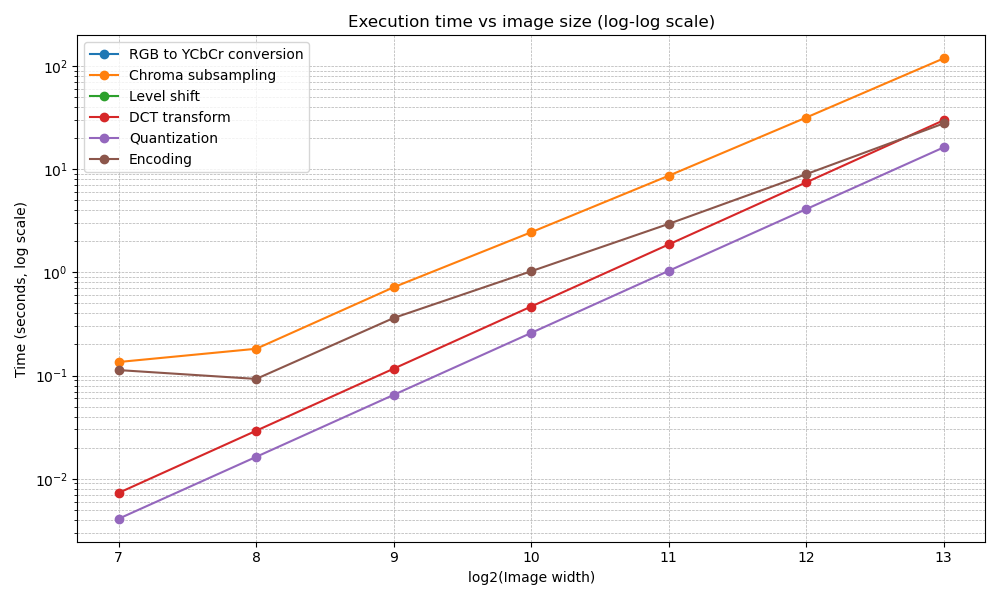
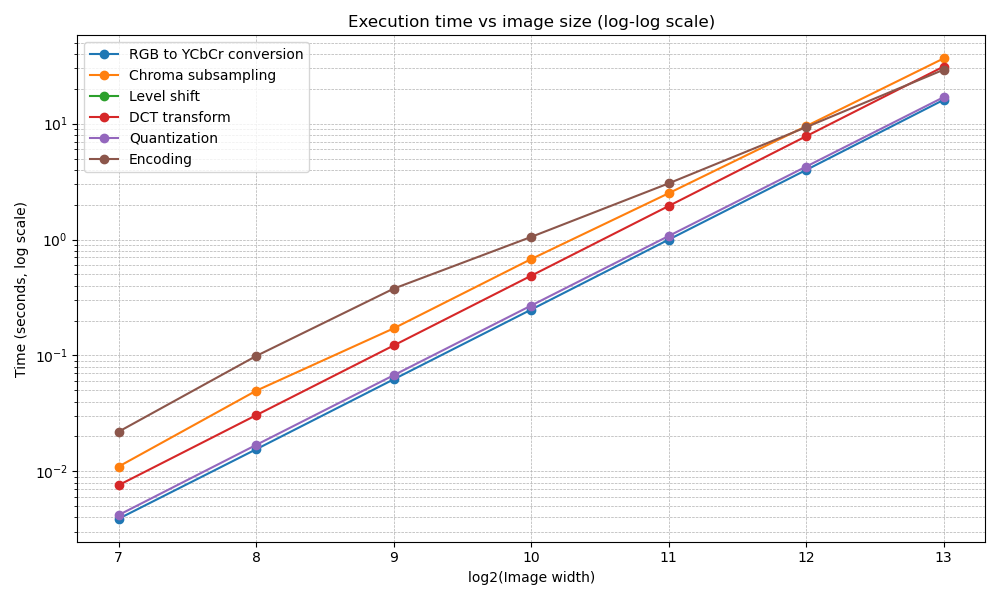
Correct the profiling log from ps

Changed region(s): [[0.031, 0.09, 0.992, 0.9], [0.031, 0.27, 0.093, 0.3], [0.031, 0.09, 0.062, 0.12]]

diff --git a/time_statistic/plot_dct_timing.py b/time_statistic/plot_dct_timing.py
@@ -5,7 +5,7 @@ import matplotlib
 matplotlib.use('TkAgg')
 
 # 控制优先从文件名获取维度
-prefer_file_name_dims = True
+prefer_file_name_dims = False
 
 # 处理步骤
 steps = [
@@ -24,7 +24,7 @@ percentages = {step: [] for step in steps}
 total_times = []
 
 # 读取日志
-with open("matlab_log_home.txt", "r") as f:
+with open("PROFILE.TXT", "r") as f:
     content = f.read()
 
 blocks = content.split("========================================")
